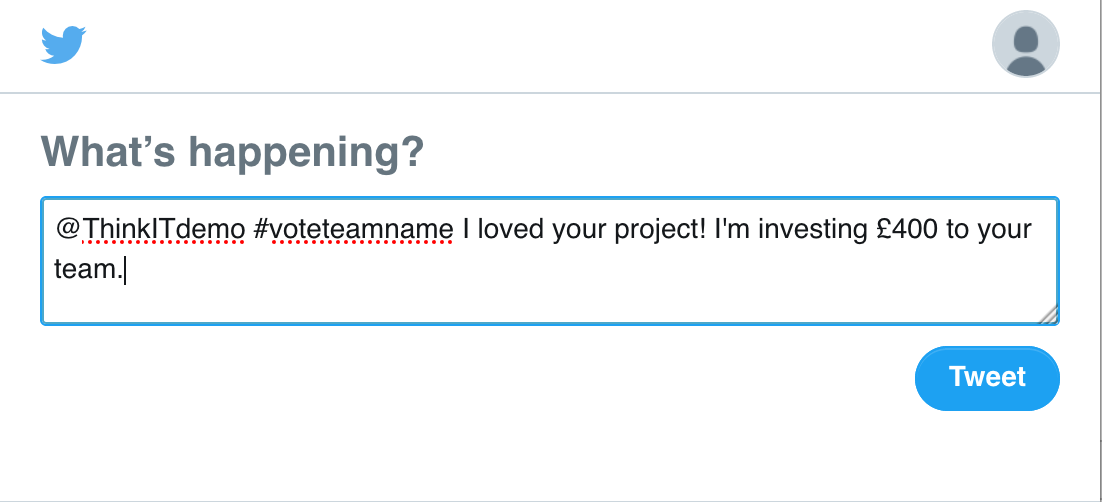
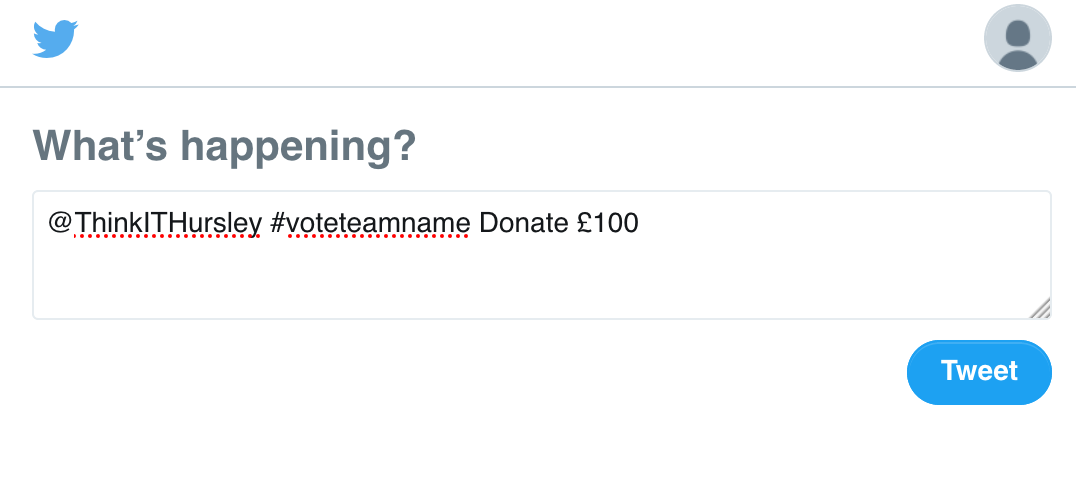
use ThinkITHursley

diff --git a/public/help.html b/public/help.html
@@ -212,7 +212,7 @@ progress, progress[role] {
   <div class="col col-left">
     <script type="text/javascript" async src="https://platform.twitter.com/widgets.js"></script>
     <a class="twitter-share-button"
-      href="https://twitter.com/intent/tweet?text=@thinkITdemo%20%23VoteAdaLovelace%20Donate%20%C2%A350"
+      href="https://twitter.com/intent/tweet?text=@ThinkITHursley%20%23voteteamname%20Donate%20%C2%A350"
       data-size="large"
       data-url="a"
       >
@@ -221,7 +221,7 @@ progress, progress[role] {
   <div class="col col-right">
     <pre><code>&lt;script type=&quot;stext/javascript&quot; async src=&quot;https://platform.twitter.com/widgets.js&quot;&gt;&lt;/script&gt;
     &lt;a class=&quot;stwitter-share-button&quot;s
-      href=&quot;https://twitter.com/intent/tweet?text=@thinkITdemo%20%23VoteTeamName%20Donate%20%C2%A350&quot;
+      href=&quot;https://twitter.com/intent/tweet?text=@ThinkITHursley%20%23voteteamname%20Donate%20%C2%A350&quot;
       data-size=&quot;large&quot;
       data-url=&quot;a&quot;
       >
@@ -233,40 +233,10 @@ progress, progress[role] {
 
 <div class="row">
   <div class="col col-left">
-    <img src="images/thinkit.png" width="200" height="200">
+    <img src="images/thinkit.png" width="150" height="150">
   </div>
   <div class="col col-right">
-    <pre><code>&lt;img src=&quot;images/thinkit.png&quot; width=&quot;200&quot; height=&quot;200&quot;&gt;</code></pre>
-  </div>
-</div>
-
-<hr>
-
-<div class="row">
-  <div class="col col-left">
-    5 donations so far!
-  </div>
-  <div class="col col-right">
-    <pre><code ng-non-bindable>{{donations}} donations so far!</code></pre>
-  </div>
-</div>
-
-<hr>
-
-<div class="row">
-  <div class="col col-left">
-    <ul>
-      <li> Entry 1</li>
-      <li> Entry 2</li>
-    </ul>
-  </div>
-  <div class="col col-right">
-    <pre><code ng-non-bindable>    &lt;ul&gt;
-      {% for entry in entries %}
-        &lt;li&gt; {{ entry }}&lt;/li&gt;
-        &lt;li&gt; {{ entry }}&lt;/li&gt;
-      {% endfor %}
-    &lt;/ul&gt;</code></pre>
+    <pre><code>&lt;img src=&quot;images/thinkit.png&quot; width=&quot;150&quot; height=&quot;150&quot;&gt;</code></pre>
   </div>
 </div>
 

diff --git a/Sources/Application/Application.swift b/Sources/Application/Application.swift
@@ -78,6 +78,7 @@ public class App {
                 next()
             }
         }
+        
         router.get("/alldonations") { request, response, next in
             Donation.findAll { donations, error in
                 guard let donations = donations else {
@@ -153,7 +154,7 @@ public class App {
         Donation.findAll() { allDonations, error in
             let existingUser = allDonations?.filter({$0.username == donation.username})
             let totalDonations = existingUser?.map({ $0.amount }).reduce(0, +) ?? 0
-            if donation.username == unlimitedUser || totalDonations + donation.amount <= userCap {
+            if noLimit || donation.username == unlimitedUser || totalDonations + donation.amount <= userCap {
                 print("saved full donation: \(donation)")
                 donation.save({ (donation, error) in
                     guard let donation = donation else {
@@ -179,7 +180,12 @@ public class App {
     
     func toggleHandler(toggle: ToggleQuery, completion: @escaping (ToggleQuery?, RequestError?) -> Void) {
         if toggle.token == ProcessInfo.processInfo.environment["toggleToken"] {
-            hideScores = toggle.hide
+            if let hide = toggle.hide {
+                hideScores = hide
+            }
+            if let newLimit = toggle.nolimit {
+                noLimit = newLimit
+            }
             completion(toggle, nil)
         } else {
             completion(nil, .unauthorized)

diff --git a/public/example.html b/public/example.html
@@ -109,7 +109,7 @@ button:hover {
 
     <script type="text/javascript" async src="https://platform.twitter.com/widgets.js"></script>
     <a class="twitter-share-button"
-      href="https://twitter.com/intent/tweet?text=@ThinkIT2018%20%23voteexample%20Donate%20%C2%A350"
+      href="https://twitter.com/intent/tweet?text=@ThinkITHursley%20%23voteteamname%20Donate%20%C2%A350"
       data-size="large"
       data-url="a"
       >
@@ -121,7 +121,7 @@ button:hover {
 
     <script type="text/javascript" async src="https://platform.twitter.com/widgets.js"></script>
     <a class="twitter-share-button w3-third"
-      href="https://twitter.com/intent/tweet?text=@ThinkIT2018%20%23voteexample%20Donate%20%C2%A3100"
+      href="https://twitter.com/intent/tweet?text=@ThinkITHursley%20%23voteteamname%20Donate%20%C2%A3100"
       data-size="large"
       data-url="a"
       >
@@ -133,7 +133,7 @@ button:hover {
 
     <script type="text/javascript" async src="https://platform.twitter.com/widgets.js"></script>
     <a class="twitter-share-button"
-      href="https://twitter.com/intent/tweet?text=@ThinkIT2018%20%23voteexample%20Donate%20%C2%A3200"
+      href="https://twitter.com/intent/tweet?text=@ThinkITHursley%20%23voteteamname%20Donate%20%C2%A3200"
       data-size="large"
       data-url="a"
       >

diff --git a/public/donate.html b/public/donate.html
@@ -204,12 +204,18 @@ body,h1,h2,h3,h4,h5,h6 {font-family: "Karma", sans-serif}
   <div class="info">
     <div class="center">
       To donate either use the Twitter widget embedded on each team's website:
-      <a href="https://twitter.com/intent/tweet?screen_name=ThinkIT2018&ref_src=twsrc%5Etfw" class="twitter-mention-button" data-show-count="false">Tweet to @thinkIT2018</a><script async src="https://platform.twitter.com/widgets.js" charset="utf-8"></script>
+      <script type="text/javascript" async src="https://platform.twitter.com/widgets.js"></script>
+      <a class="twitter-share-button"
+          href="https://twitter.com/intent/tweet?text=@ThinkITHursley%20%23voteteamname%20Donate%20%C2%A3100"
+          data-size="large"
+          data-url="a"
+          >
+          Tweet</a>
     </div>
   </div>
 
   <div class="info">
-    <p class="center"> Or go to twitter and donate @ThinkIT2018 with the hashtag #voteteamname and the amount you want to donate: </p>
+    <p class="center"> Or go to twitter and donate @ThinkITHursley with the hashtag #vote&lt;teamname&gt; and the amount you want to donate: </p>
     <img class="tweet" src="./images/example.png">
   </div>
 

diff --git a/Sources/Application/Models.swift b/Sources/Application/Models.swift
@@ -31,7 +31,8 @@ struct Donator {
 
 struct ToggleQuery: QueryParams, Codable {
     let token: String
-    let hide: Bool
+    let hide: Bool?
+    let nolimit: Bool?
 }
 
 let teams: [String] = ["Ada Lovelace", "Elizabeth Blackwell", "Grace Hopper", "Jane Goodall", "Katherine Johnson", "Mae Jemison", "Marie Curie", "Rosalind Franklin"]
@@ -39,4 +40,5 @@ let teams: [String] = ["Ada Lovelace", "Elizabeth Blackwell", "Grace Hopper", "J
 let userCap: Double = 1000
 let unlimitedUser: String? = ProcessInfo.processInfo.environment["unlimitedUser"]
 var hideScores: Bool = false
+var noLimit: Bool = false
 
